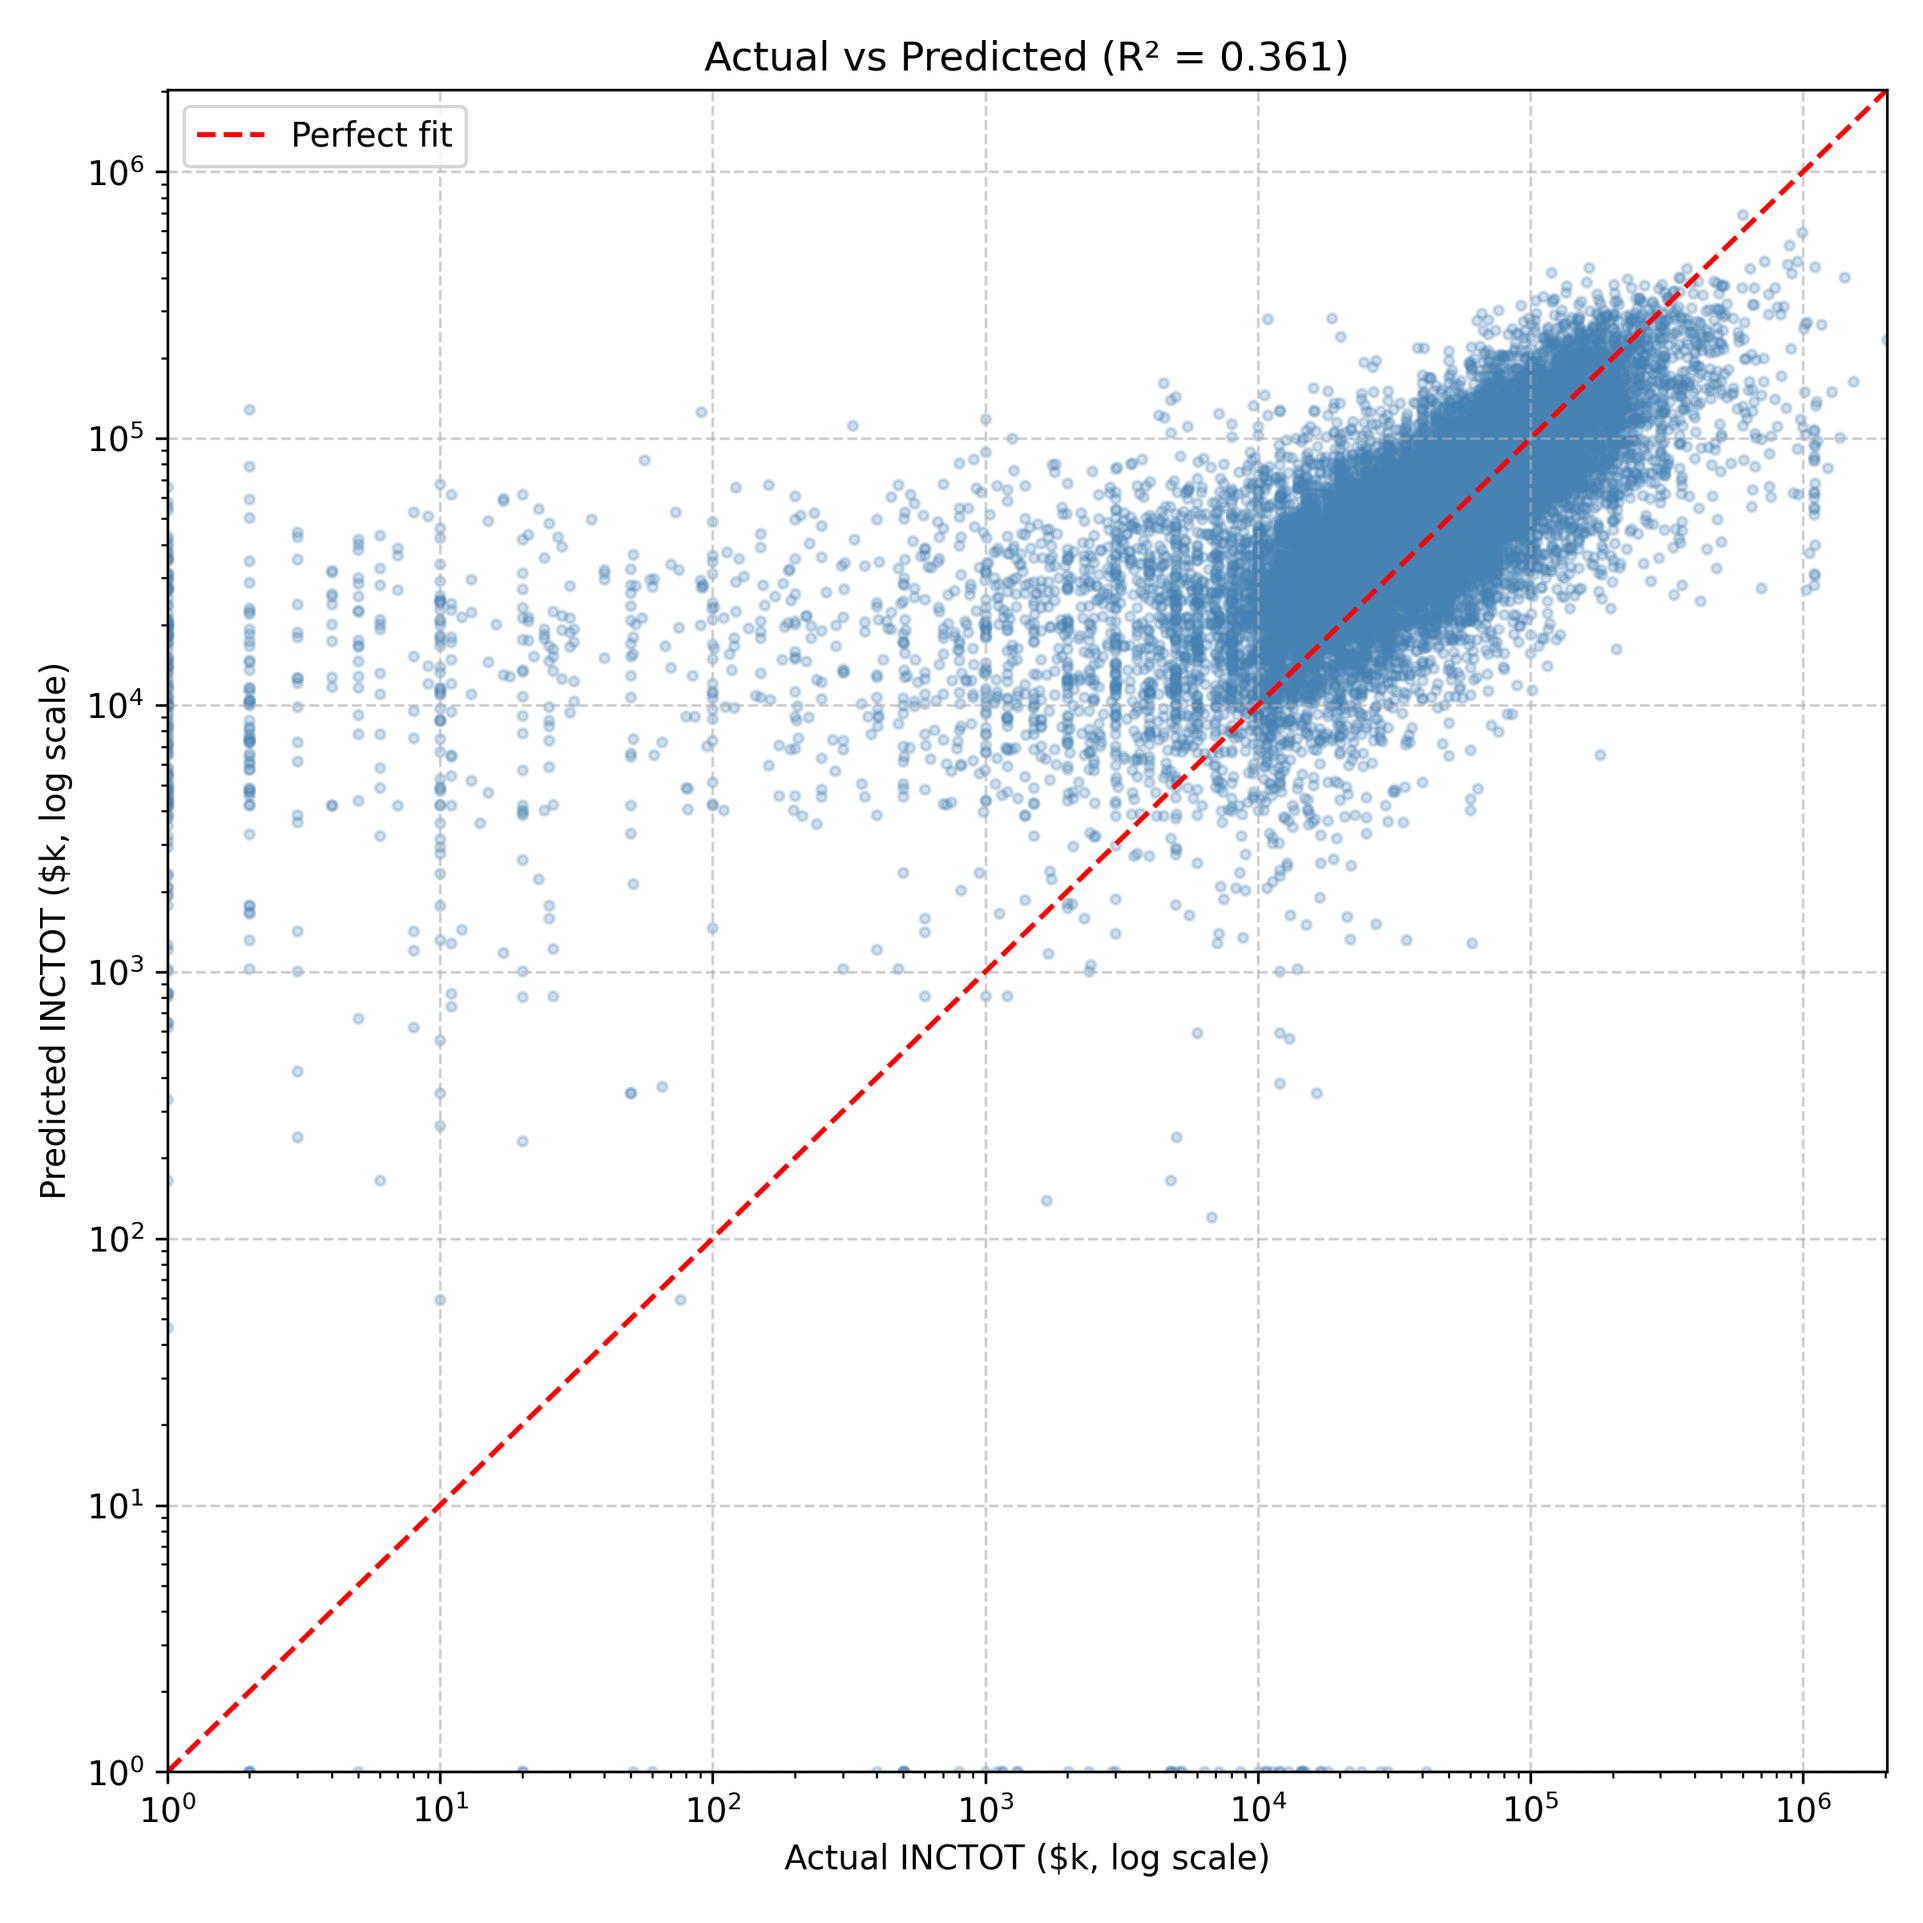
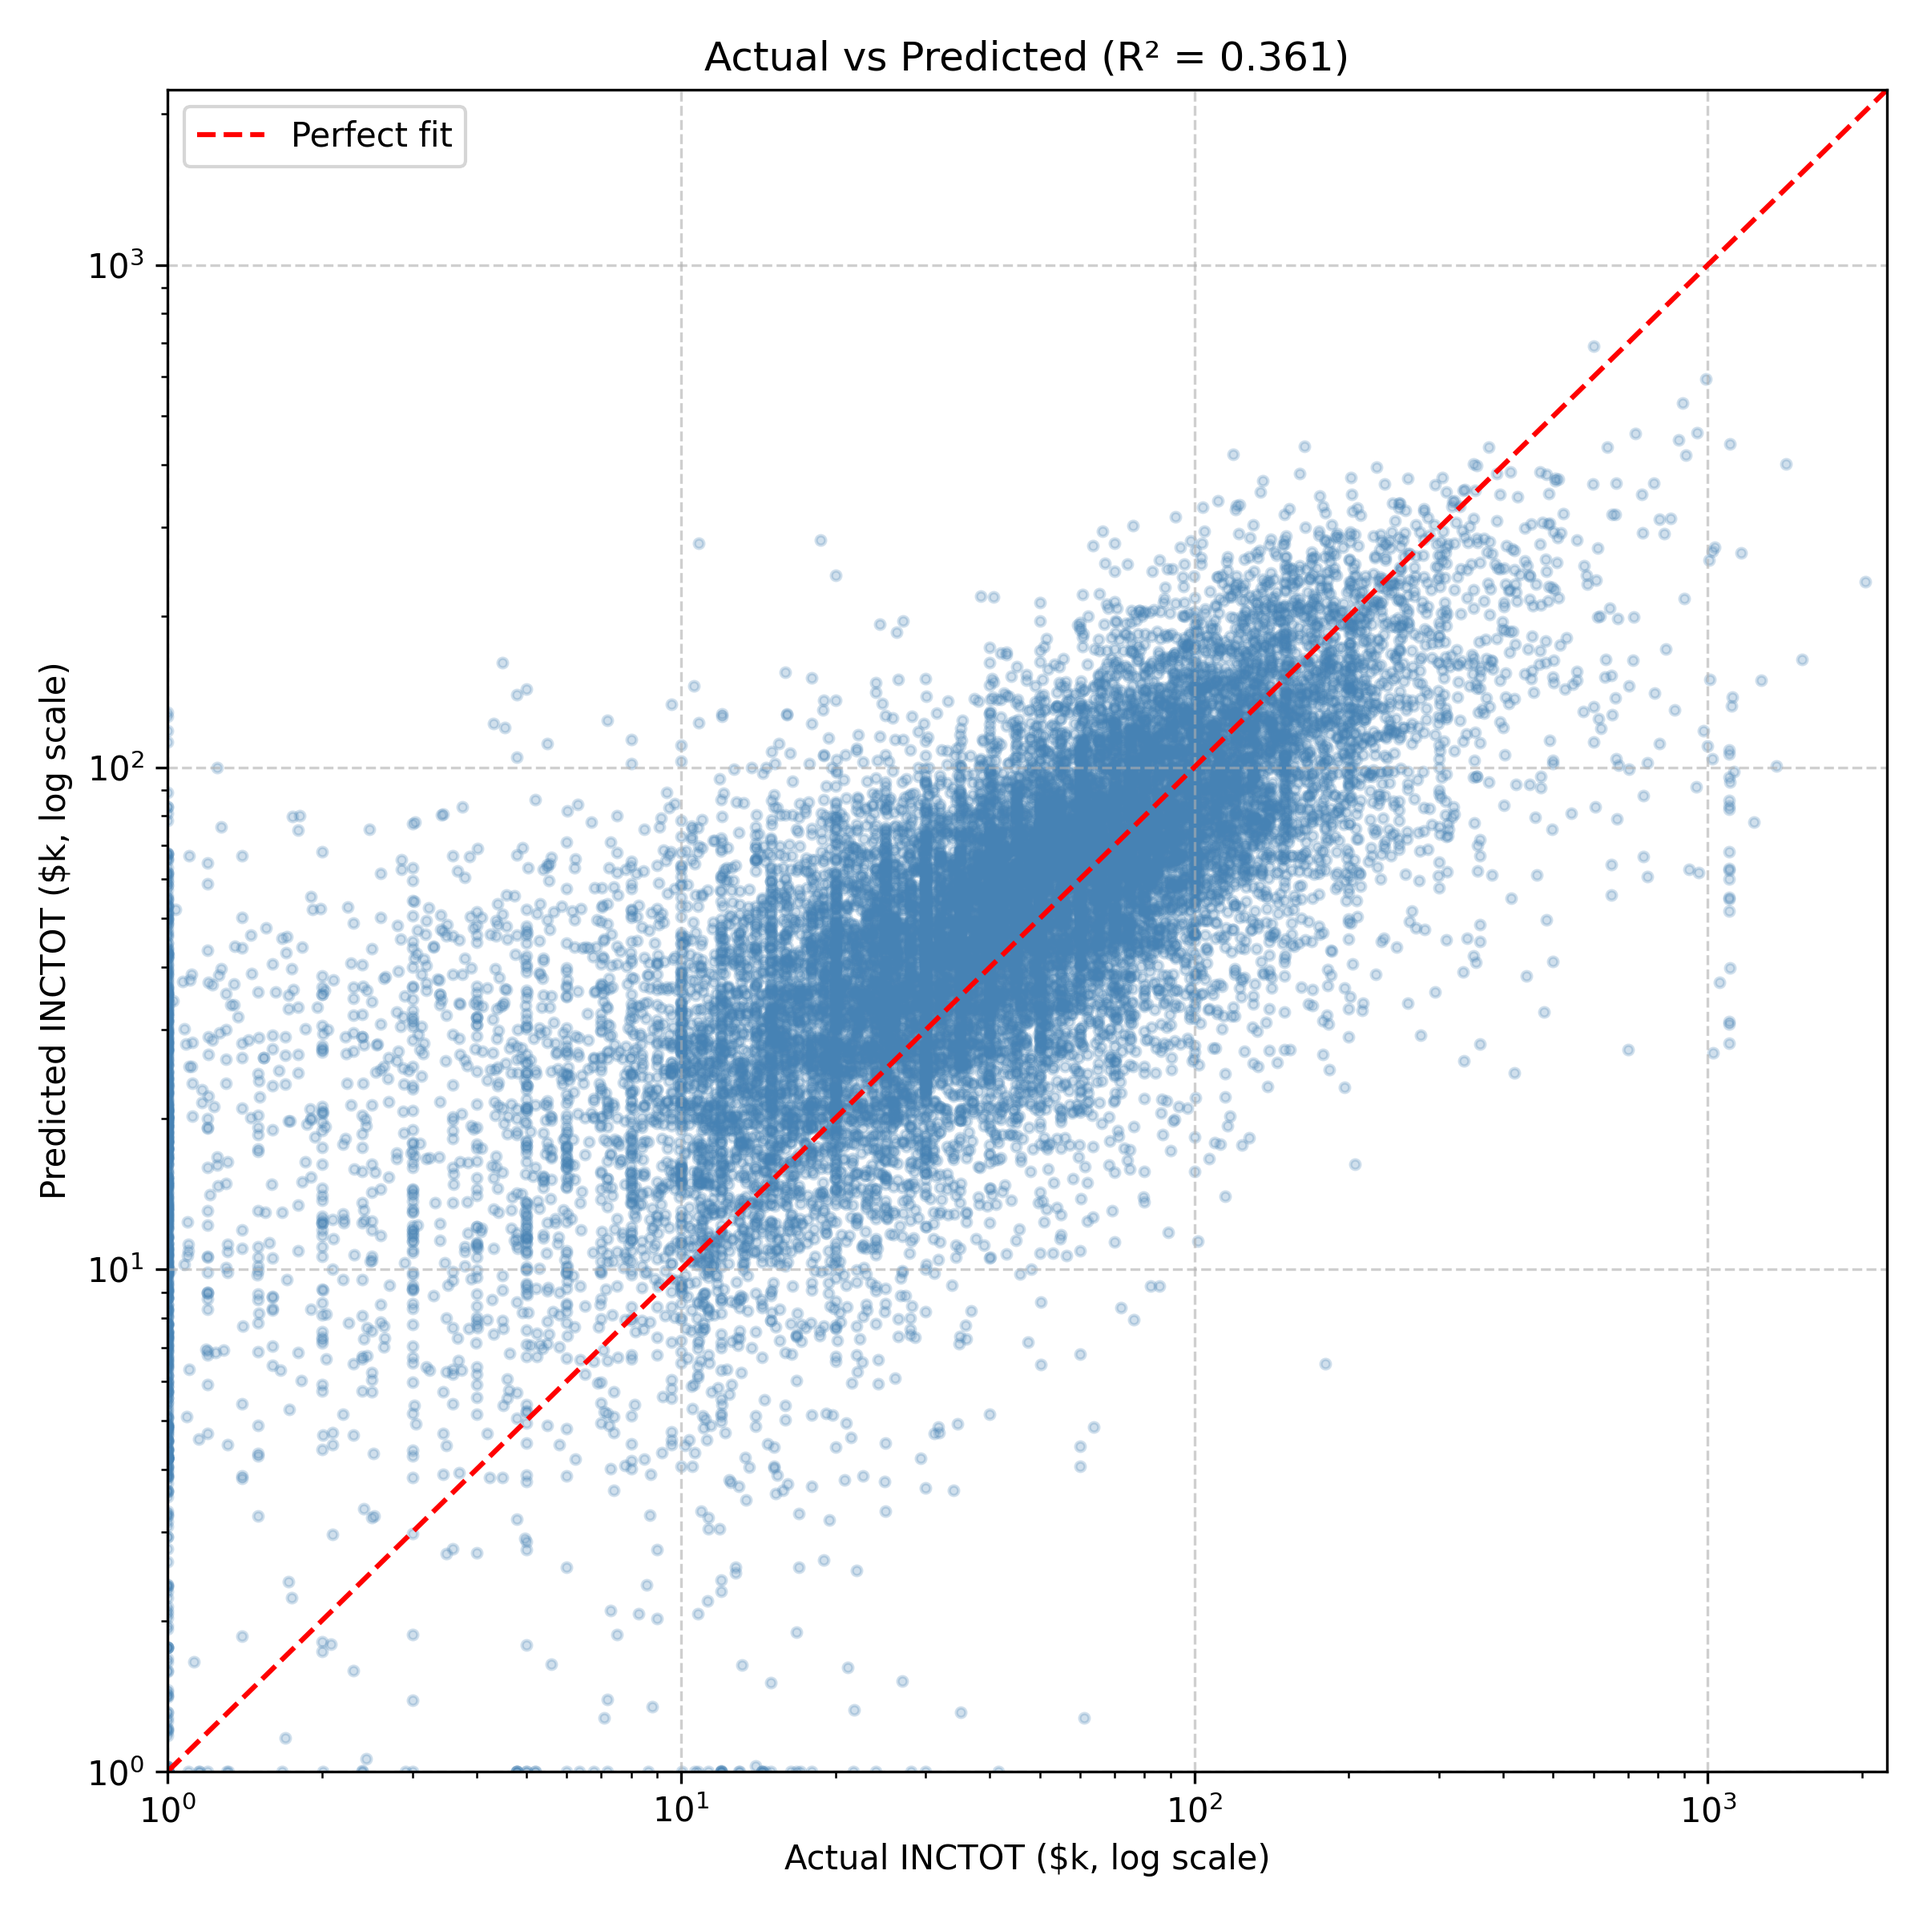
modify gb and gb_top20 code for unify graphs

diff --git a/src/models/model_gb.py b/src/models/model_gb.py
@@ -177,19 +177,18 @@ def plot_gb_actual_vs_predicted(
 ):
     preds = model.predict(X_test)
 
-    # Clip negatives (log scale cannot handle <= 0)
-    actual = np.clip(y_test, 1, None)
-    predicted = np.clip(preds, 1, None)
+    actual_k = np.clip(y_test / 1_000, 1.0, None)
+    predicted_k = np.clip(preds / 1_000, 1.0, None)
 
     fig, ax = plt.subplots(figsize=(8, 8))
 
-    ax.scatter(actual, predicted, alpha=0.25, s=8, color="steelblue")
+    ax.scatter(actual_k, predicted_k, alpha=0.25, s=8, color="steelblue")
 
     ax.set_xscale("log")
     ax.set_yscale("log")
 
     min_val = 1
-    max_val = max(actual.max(), predicted.max())
+    max_val = max(actual_k.max(), predicted_k.max()) * 1.1
 
     ax.set_xlim(1, max_val)
     ax.set_ylim(1, max_val)

diff --git a/src/models/model_gb_top20.py b/src/models/model_gb_top20.py
@@ -167,19 +167,18 @@ def plot_gb_actual_vs_predicted(
 ):
     preds = model.predict(X_test)
 
-    # Clip negatives (log scale cannot handle <= 0)
-    actual = np.clip(y_test, 1, None)
-    predicted = np.clip(preds, 1, None)
+    actual_k = np.clip(y_test / 1_000, 1.0, None)
+    predicted_k = np.clip(preds / 1_000, 1.0, None)
 
     fig, ax = plt.subplots(figsize=(8, 8))
 
-    ax.scatter(actual, predicted, alpha=0.25, s=8, color="steelblue")
+    ax.scatter(actual_k, predicted_k, alpha=0.25, s=8, color="steelblue")
 
     ax.set_xscale("log")
     ax.set_yscale("log")
 
     min_val = 1
-    max_val = max(actual.max(), predicted.max())
+    max_val = max(actual_k.max(), predicted_k.max()) * 1.1
 
     ax.set_xlim(1, max_val)
     ax.set_ylim(1, max_val)

diff --git a/README.md b/README.md
@@ -287,9 +287,10 @@ Where:
 
 **Hyperparameter Tuning (GridSearchCV)**
 
-We first performed hyperparameter tuning using `GridSearchCV` with 3‑fold cross‑validation on the training set (81,864 observations and 47 features). Because income is highly skewed, all predictions were evaluated on a **log‑transformed scale**.
+We first performed hyperparameter tuning using `GridSearchCV` with 3‑fold cross‑validation on the training set (81,864 observations and 47 features).
 
-For visualization consistency across models, we applied a **log10(1 + x)** transformation to both actual and predicted income values. This transformation reduces the influence of extreme outliers and produces clearer, more interpretable plots.
+Because income is highly skewed, model performance metrics (R², MSE, MAE) were computed on the **original income scale**, while a **log10(1 + x)** transformation was applied **only for visualization** to both actual and predicted values.
+
 
 *Search Space*
 
@@ -301,7 +302,9 @@ For visualization consistency across models, we applied a **log10(1 + x)** trans
 
 **Hyperparameter Tuning (Optuna)**
 
-We then applied `Optuna` to perform a more flexible, continuous search over the hyperparameter space. Unlike `GridSearchCV`, which evaluates a fixed grid, `Optuna` explores the space adaptively and focuses on promising regions. The same **log10(1 + x)** evaluation and visualization strategy was used to ensure comparability across tuning methods.
+We then applied `Optuna` to perform a more flexible, continuous search over the hyperparameter space. Unlike `GridSearchCV`, which evaluates a fixed grid, `Optuna` explores the space adaptively and focuses on promising regions. As with the grid search, each trial was evaluated using 3‑fold cross‑validation on the training set, and model performance metrics (R², MSE, MAE) were computed on the **original income scale**. 
+
+For visualization consistency across tuning methods, we applied the same **log10(1 + x)** transformation **only when plotting actual and predicted income values**, which stabilizes the scale, reduces the influence of extreme outliers, and produces clearer, more interpretable plots.
 
 *Search Space*
 
@@ -315,15 +318,18 @@ We then applied `Optuna` to perform a more flexible, continuous search over the 
 
 **Comparison within Gradient Boosting**
 
-|Parameter/Metric |Baseline GB|Grid GB  |Optuna GB|
-|-----------------|-----------|---------|---------|
-|n_estimators     |300        |200      |475      |
-|learning_rate    |0.05       |0.1      |0.0382   |
-|max_depth        |3          |4        |4        |
-|Test MSE         |4.80B      |4.72B    |4.73B    |
-|Test MAE         |30,158     |29,766   |29,747   |
-|Test R²          |0.3559     |0.3666   |0.3659   | 
-|Computation Time |—          |~10 min  |~14 min  |
+|Parameter/Metric    |Baseline GB|Grid GB  |Optuna GB|
+|--------------------|-----------|---------|---------|
+|n_estimators        |300        |200      |475      |
+|learning_rate       |0.05       |0.1      |0.0382   |
+|max_depth           |3          |4        |4        |
+|Test MSE            |4.80B      |4.72B    |4.73B    |
+|Test MAE            |30,158     |29,766   |29,747   |
+|Test R²             |0.3559     |0.3666   |0.3659   |
+|n_trials (effective)|-          |60       |20       |    
+|Computation Time    |-          |~10 min  |~14 min  |
+
+**Note.** Both GridSearchCV and Optuna used 3‑fold cross‑validation. GridSearchCV evaluated all 60 hyperparameter combinations (5 × 4 × 3), resulting in 180 total model fits. Optuna performed 20 adaptive trials (60 total fits). Thus, the effective number of trials is 60 for GridSearchCV and 20 for Optuna.
 
 Both tuned models (Grid GB and Optuna GB) achieve lower prediction error and higher explanatory power than the baseline model, demonstrating that hyperparameter optimization meaningfully improves Gradient Boosting performance.
 
